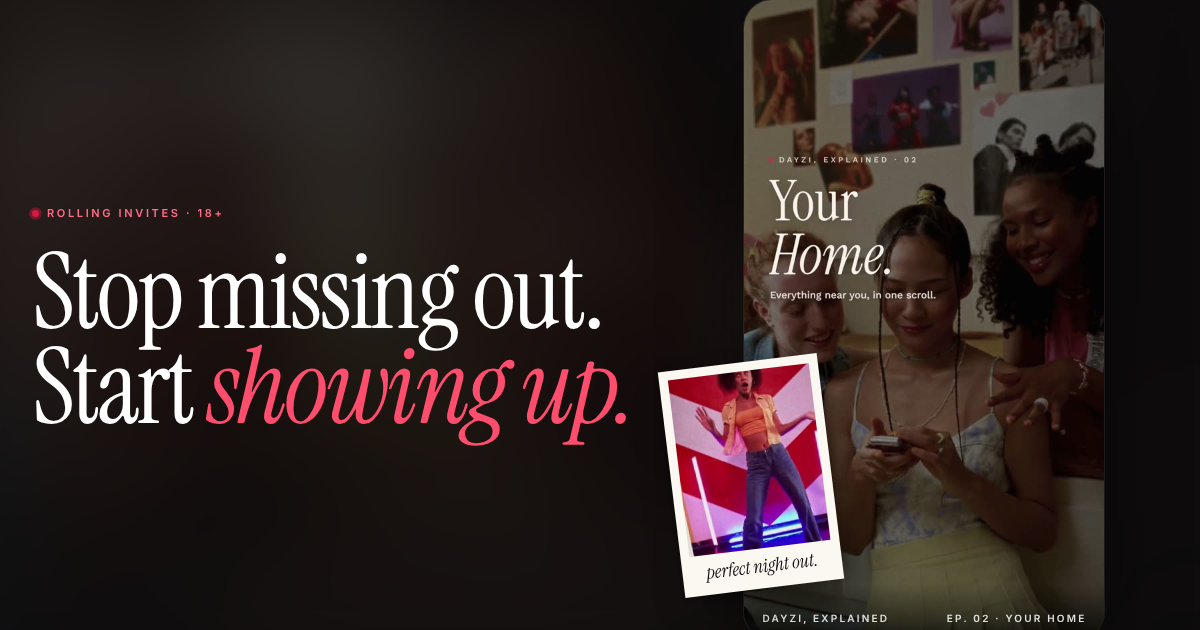
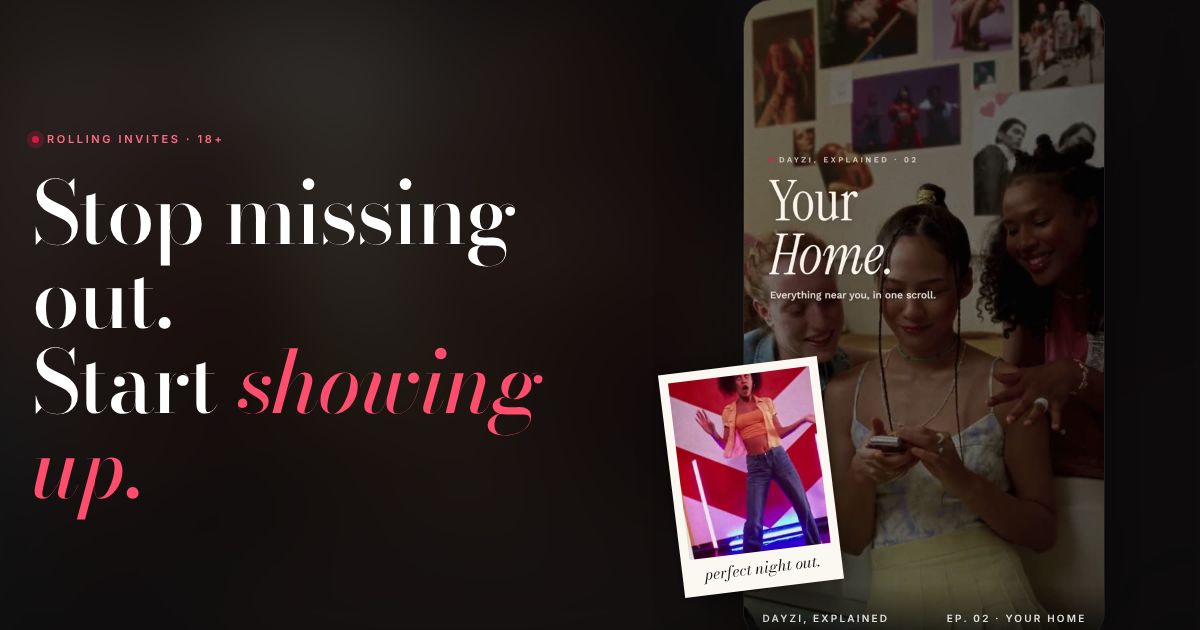
Switch headlines to Bodoni Moda
Instrument Serif read as generic; Bodoni Moda keeps the editorial,
fashion-magazine feel of the app films. Sizes retuned for its width.

Claude-Session: https://claude.ai/code/session_019VBMQ8Mf9ijUntkTGzVZeq

diff --git a/src/App.css b/src/App.css
@@ -18,7 +18,7 @@
   --red: #d61844;
   --red-deep: #b0102f;
   --line: rgba(18, 17, 18, 0.16);
-  --font-serif: 'Instrument Serif', 'Times New Roman', serif;
+  --font-serif: 'Bodoni Moda', 'Didot', 'Bodoni 72', 'Times New Roman', serif;
   --font-sans: 'Inter', -apple-system, BlinkMacSystemFont, 'Segoe UI', Roboto, sans-serif;
   --ease: cubic-bezier(0.2, 0.7, 0.2, 1);
 }
@@ -90,8 +90,8 @@ body {
 .hero__title,
 .cta__title {
   font-family: var(--font-serif);
-  font-weight: 400;
-  letter-spacing: -0.025em;
+  font-weight: 500;
+  letter-spacing: -0.02em;
   margin: 0;
 }
 
@@ -107,24 +107,24 @@ body {
 }
 
 .h-hero {
-  font-size: clamp(3.6rem, 11vw, 8.5rem);
-  line-height: 0.88;
+  font-size: clamp(3rem, 9vw, 7rem);
+  line-height: 0.92;
   margin-bottom: 22px;
 }
 
 .h-xl {
-  font-size: clamp(2.5rem, 6.4vw, 4.8rem);
-  line-height: 0.95;
+  font-size: clamp(2.1rem, 5.2vw, 3.9rem);
+  line-height: 1;
   margin-bottom: 18px;
 }
 
 .h-lg {
-  font-size: clamp(2rem, 4.4vw, 3.2rem);
+  font-size: clamp(1.7rem, 3.6vw, 2.6rem);
   line-height: 1;
 }
 
 .h-md {
-  font-size: clamp(1.8rem, 3vw, 2.4rem);
+  font-size: clamp(1.5rem, 2.4vw, 1.9rem);
   line-height: 1;
   margin: 4px 0 8px;
 }
@@ -334,7 +334,7 @@ summary:focus-visible {
   color: var(--cream);
   text-decoration: none;
   font-family: var(--font-serif);
-  font-size: 1.7rem;
+  font-size: 1.45rem;
   letter-spacing: -0.02em;
 }
 
@@ -549,7 +549,7 @@ summary:focus-visible {
   text-align: center;
   font-family: var(--font-serif);
   font-style: italic;
-  font-size: 1.15rem;
+  font-size: 0.98rem;
   line-height: 1.1;
   color: var(--ink);
 }
@@ -598,8 +598,8 @@ summary:focus-visible {
 }
 
 .hero__title {
-  font-size: clamp(3.2rem, 10vw, 6.6rem);
-  line-height: 0.9;
+  font-size: clamp(2.6rem, 8vw, 5.4rem);
+  line-height: 0.98;
   color: #fff;
 }
 
@@ -658,7 +658,7 @@ summary:focus-visible {
   gap: 26px;
   padding-right: 26px;
   font-family: var(--font-serif);
-  font-size: clamp(1.4rem, 2.8vw, 2rem);
+  font-size: clamp(1.2rem, 2.3vw, 1.6rem);
   white-space: nowrap;
 }
 
@@ -698,8 +698,8 @@ summary:focus-visible {
 
 .step__n {
   font-family: var(--font-serif);
-  font-size: 4.2rem;
-  line-height: 0.8;
+  font-size: 3.4rem;
+  line-height: 0.85;
   color: var(--ink);
 }
 
@@ -788,7 +788,7 @@ summary:focus-visible {
   margin: 14px 0 6px;
   font-family: var(--font-serif);
   font-weight: 400;
-  font-size: 1.6rem;
+  font-size: 1.35rem;
   line-height: 1;
 }
 
@@ -830,8 +830,8 @@ summary:focus-visible {
 
 .cta__title {
   max-width: 900px;
-  font-size: clamp(2.6rem, 7vw, 5.4rem);
-  line-height: 0.95;
+  font-size: clamp(2.2rem, 5.8vw, 4.4rem);
+  line-height: 1.02;
   color: #fff;
 }
 
@@ -878,7 +878,7 @@ summary:focus-visible {
   color: var(--ink);
   text-decoration: none;
   font-family: var(--font-serif);
-  font-size: 1.25rem;
+  font-size: 1.05rem;
   transition: background 0.2s ease, color 0.2s ease;
 }
 
@@ -1038,7 +1038,7 @@ summary:focus-visible {
   align-items: center;
   gap: 14px;
   font-family: var(--font-serif);
-  font-size: clamp(2.6rem, 6vw, 4.4rem);
+  font-size: clamp(2.2rem, 5vw, 3.6rem);
   line-height: 1;
 }
 
@@ -1101,8 +1101,8 @@ summary:focus-visible {
   padding: 18px 0;
   border-bottom: 1px solid var(--line);
   font-family: var(--font-serif);
-  font-size: clamp(1.5rem, 2.6vw, 2rem);
-  line-height: 1.15;
+  font-size: clamp(1.25rem, 2.1vw, 1.6rem);
+  line-height: 1.2;
 }
 
 .tips li span {
@@ -1157,8 +1157,8 @@ summary:focus-visible {
 .faq__q {
   flex: 1;
   font-family: var(--font-serif);
-  font-size: clamp(1.5rem, 2.6vw, 2rem);
-  line-height: 1.1;
+  font-size: clamp(1.2rem, 2vw, 1.55rem);
+  line-height: 1.2;
 }
 
 .faq__icon {
@@ -1206,14 +1206,14 @@ summary:focus-visible {
 
 .footer__name {
   font-family: var(--font-serif);
-  font-size: 2.4rem;
+  font-size: 2rem;
   line-height: 1;
 }
 
 .footer__tag {
   margin-top: 4px;
   font-family: var(--font-serif);
-  font-size: 1.15rem;
+  font-size: 1rem;
   color: rgba(243, 237, 228, 0.7);
 }
 

diff --git a/public/index.html b/public/index.html
@@ -11,7 +11,7 @@
     <link rel="preconnect" href="https://fonts.gstatic.com" crossorigin />
     <link
       rel="stylesheet"
-      href="https://fonts.googleapis.com/css2?family=Inter:wght@400;500;600&family=Instrument+Serif:ital@0;1&display=swap"
+      href="https://fonts.googleapis.com/css2?family=Bodoni+Moda:ital,opsz,wght@0,6..96,400..600;1,6..96,400..600&family=Inter:wght@400;500;600&display=swap"
     />
     <meta
       name="description"
